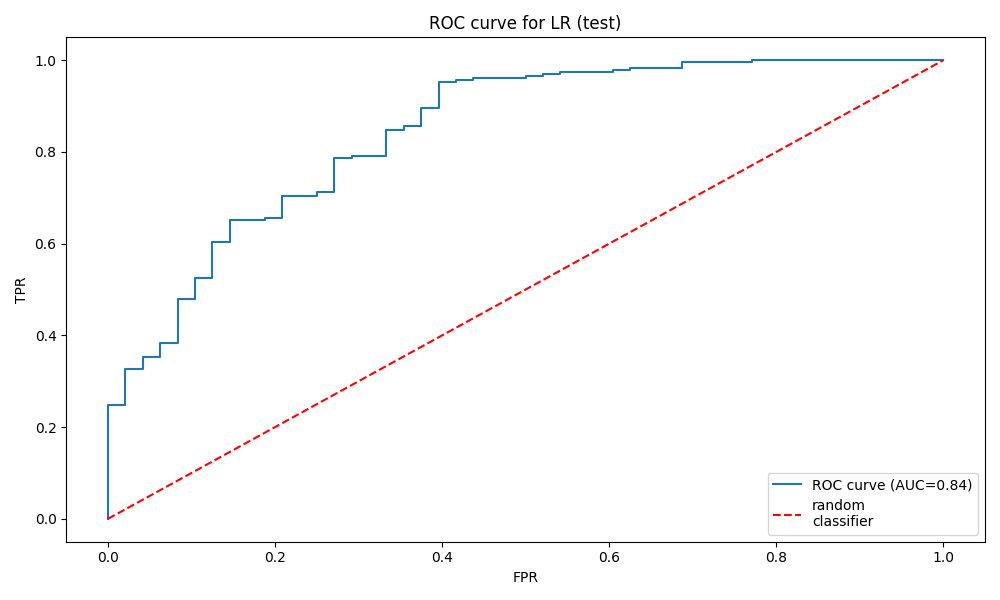
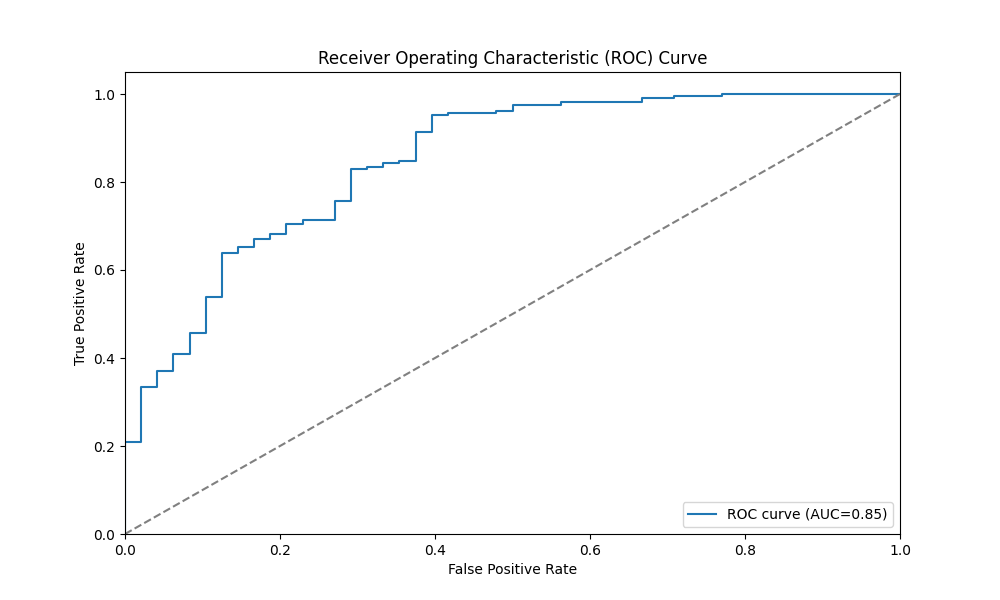
logreg&overview data final changes

diff --git a/Logistic_regression.py b/Logistic_regression.py
@@ -18,10 +18,11 @@ from sklearn.feature_selection import SelectFromModel
 import random
 from sklearn.metrics import accuracy_score, precision_score, recall_score, f1_score, roc_curve, auc
 from imblearn.over_sampling import SMOTE
+from sklearn.model_selection import GridSearchCV
 
 #load data
-data_features = pd.read_csv("../data/DRIAMS-EC/driams_Escherichia coli_Ceftriaxone_features.csv")
-data_labels = pd.read_csv("../data/DRIAMS-EC/driams_Escherichia coli_Ceftriaxone_labels.csv")
+data_features = pd.read_csv("../data/driams_Escherichia coli_Ceftriaxone_features.csv")
+data_labels = pd.read_csv("../data/driams_Escherichia coli_Ceftriaxone_labels.csv")
 data_features = data_features.rename(columns={data_features.columns[0]: "ID"})
 data_labels = data_labels.rename(columns={data_labels.columns[0]: "ID"})
 data = pd.merge(data_features, data_labels, on="ID", how="inner")
@@ -108,9 +109,26 @@ X_new = scaler.transform(X_new)
 X_train, X_test, y_train, y_test = train_test_split(X_new, y, test_size=0.2, random_state=42)
 
 
+#Parameter tuning
+DO_TUNING = False
+param_grid = {
+  'C': [0.1, 1, 10, 100],
+}
+
+# GridSearchCV to find the best parameters
+if DO_TUNING:
+    grid_search = GridSearchCV(LogisticRegression(solver='liblinear', random_state=1), param_grid, cv=5, scoring='accuracy')
+    grid_search.fit(X_train, y_train)
+
+    # Print the best parameters and best score
+    print("Best parameters:", grid_search.best_params_)
+    print("Best cross-validation accuracy:", grid_search.best_score_)
+    
+
 #Fit the model
-logistic_regression_model = LogisticRegression(solver='liblinear', random_state=1)
+logistic_regression_model = LogisticRegression(solver='liblinear', random_state=1, C=0.1)
 logistic_regression_model.fit(X_train, y_train)
+
 
 #Evaluation metrics function
 def eval_Performance(y_eval, X_eval, clf, clf_name = 'My Classifier'):
@@ -131,17 +149,16 @@ def eval_Performance(y_eval, X_eval, clf, clf_name = 'My Classifier'):
     
     fig, ax = plt.subplots(figsize=(10, 6))
     ax.plot(fp_rates, tp_rates, label=f'ROC curve (AUC={roc_auc:.2f})')
-    ax.plot([0, 1], [0, 1], color="r", ls="--", label='random\nclassifier')
-    #ax.set_xlim([0.0, 1.0])
-    #ax.set_ylim([0.0, 1.0])
-    ax.set_xlabel('FPR')
-    ax.set_ylabel('TPR')
+    ax.plot([0, 1], [0, 1], color="grey", ls="--")
+    ax.set_xlim([0.0, 1.0])
+    ax.set_ylim([0.0, 1.05])
+    ax.set_xlabel('False Positive Rate')
+    ax.set_ylabel('True Positive Rate')
     ax.legend(loc="lower right")
-    ax.set_title(f'ROC curve for {clf_name}')
+    plt.title("Receiver Operating Characteristic (ROC) Curve")
 
-    plt.tight_layout()
+    #plt.tight_layout()
     plt.savefig(f'./LogReg_output/ROC_curve_ {clf_name}.png')
-    plt.show()
 
     return tp,fp,tn,fn,accuracy, precision, recall, f1, roc_auc
 

diff --git a/overview_data.py b/overview_data.py
@@ -16,13 +16,14 @@ import random
 from sklearn.metrics import accuracy_score, precision_score, recall_score, f1_score, roc_curve, auc
 
 
-data_feats = pd.read_csv("../data/DRIAMS-EC/driams_Escherichia coli_Ceftriaxone_features.csv")
-data_labels = pd.read_csv("../data/DRIAMS-EC/driams_Escherichia coli_Ceftriaxone_labels.csv")
+data_feats = pd.read_csv("../data/driams_Escherichia coli_Ceftriaxone_features.csv")
+data_labels = pd.read_csv("../data/driams_Escherichia coli_Ceftriaxone_labels.csv")
 print(data_feats.head(5))
 print(data_labels.head(5))
 print(data_feats.shape)
 print(data_labels.shape)
 print(data_labels['Unnamed: 0'].nunique()) #no multiple entries of same sample ID
+print(data_labels['label'].value_counts())
 
 #How many patients do have a resistance
 plt.figure(figsize=(10, 5))
@@ -33,7 +34,7 @@ plt.title('Distribution of Antibiotic Resistance')
 plt.xlabel('Resistance')
 plt.ylabel('Number of Patients')
 
-plt.savefig('../figures/Resistance_distribution.png')
+plt.savefig('./overview_data/Resistance_distribution.png')
 
 #check for missing values
 print(f"Missing values in the features: {data_feats.isnull().sum().sum()}")
@@ -66,7 +67,7 @@ for i, ax in enumerate(ax.flatten()):
 plt.suptitle('Distribution of some random chosen Features')
 fig.tight_layout()
 
-plt.savefig('../figures/Random_Features_distribution.png')
+plt.savefig('./overview_data/Random_Features_distribution.png')
 
 ###test for normality in the random features###
 # extract the two groups you want to compare
@@ -87,8 +88,11 @@ for feat in random_feats:
 
     significance_level = 0.05 / len(random_feats)
     #if p-value < significance level -> the two groups(resistant not resistant) are significantly different in that feature
+    if statistical_test.pvalue < significance_level:
+        print(f"Feature {feat} is significantly different between the two groups")
+    else:
+        print(f"Feature {feat} is not significantly different between the two groups")
 
 #probably most features like these random features are not normally disributed
 #some fetaures seem to be significantly different between the two groups, some don't
 
-#ADD MULTIPLE TESTING ADJUSTMENT??? line 107 (tutorial 6)
